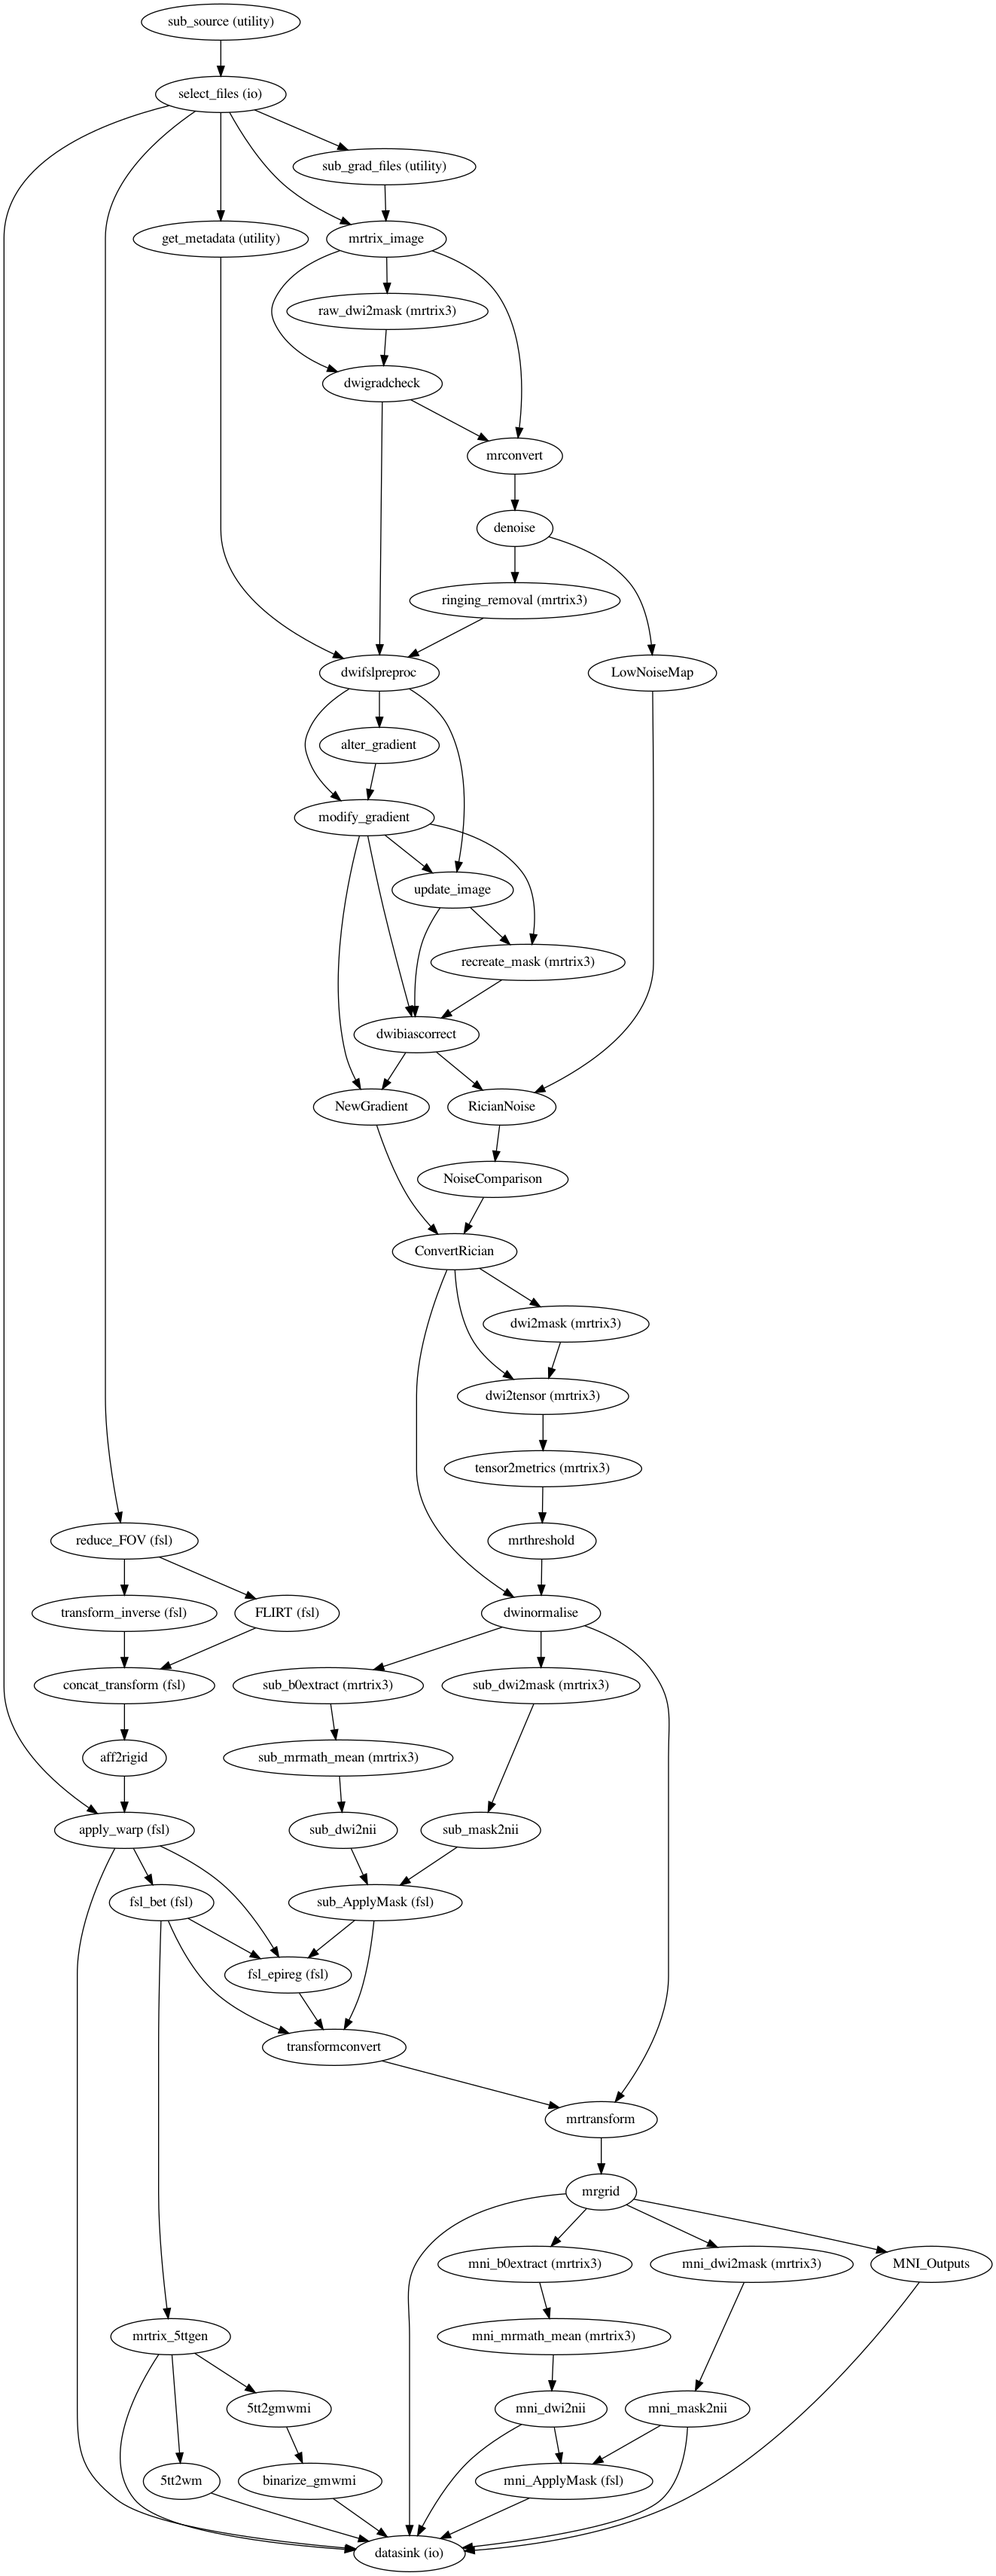
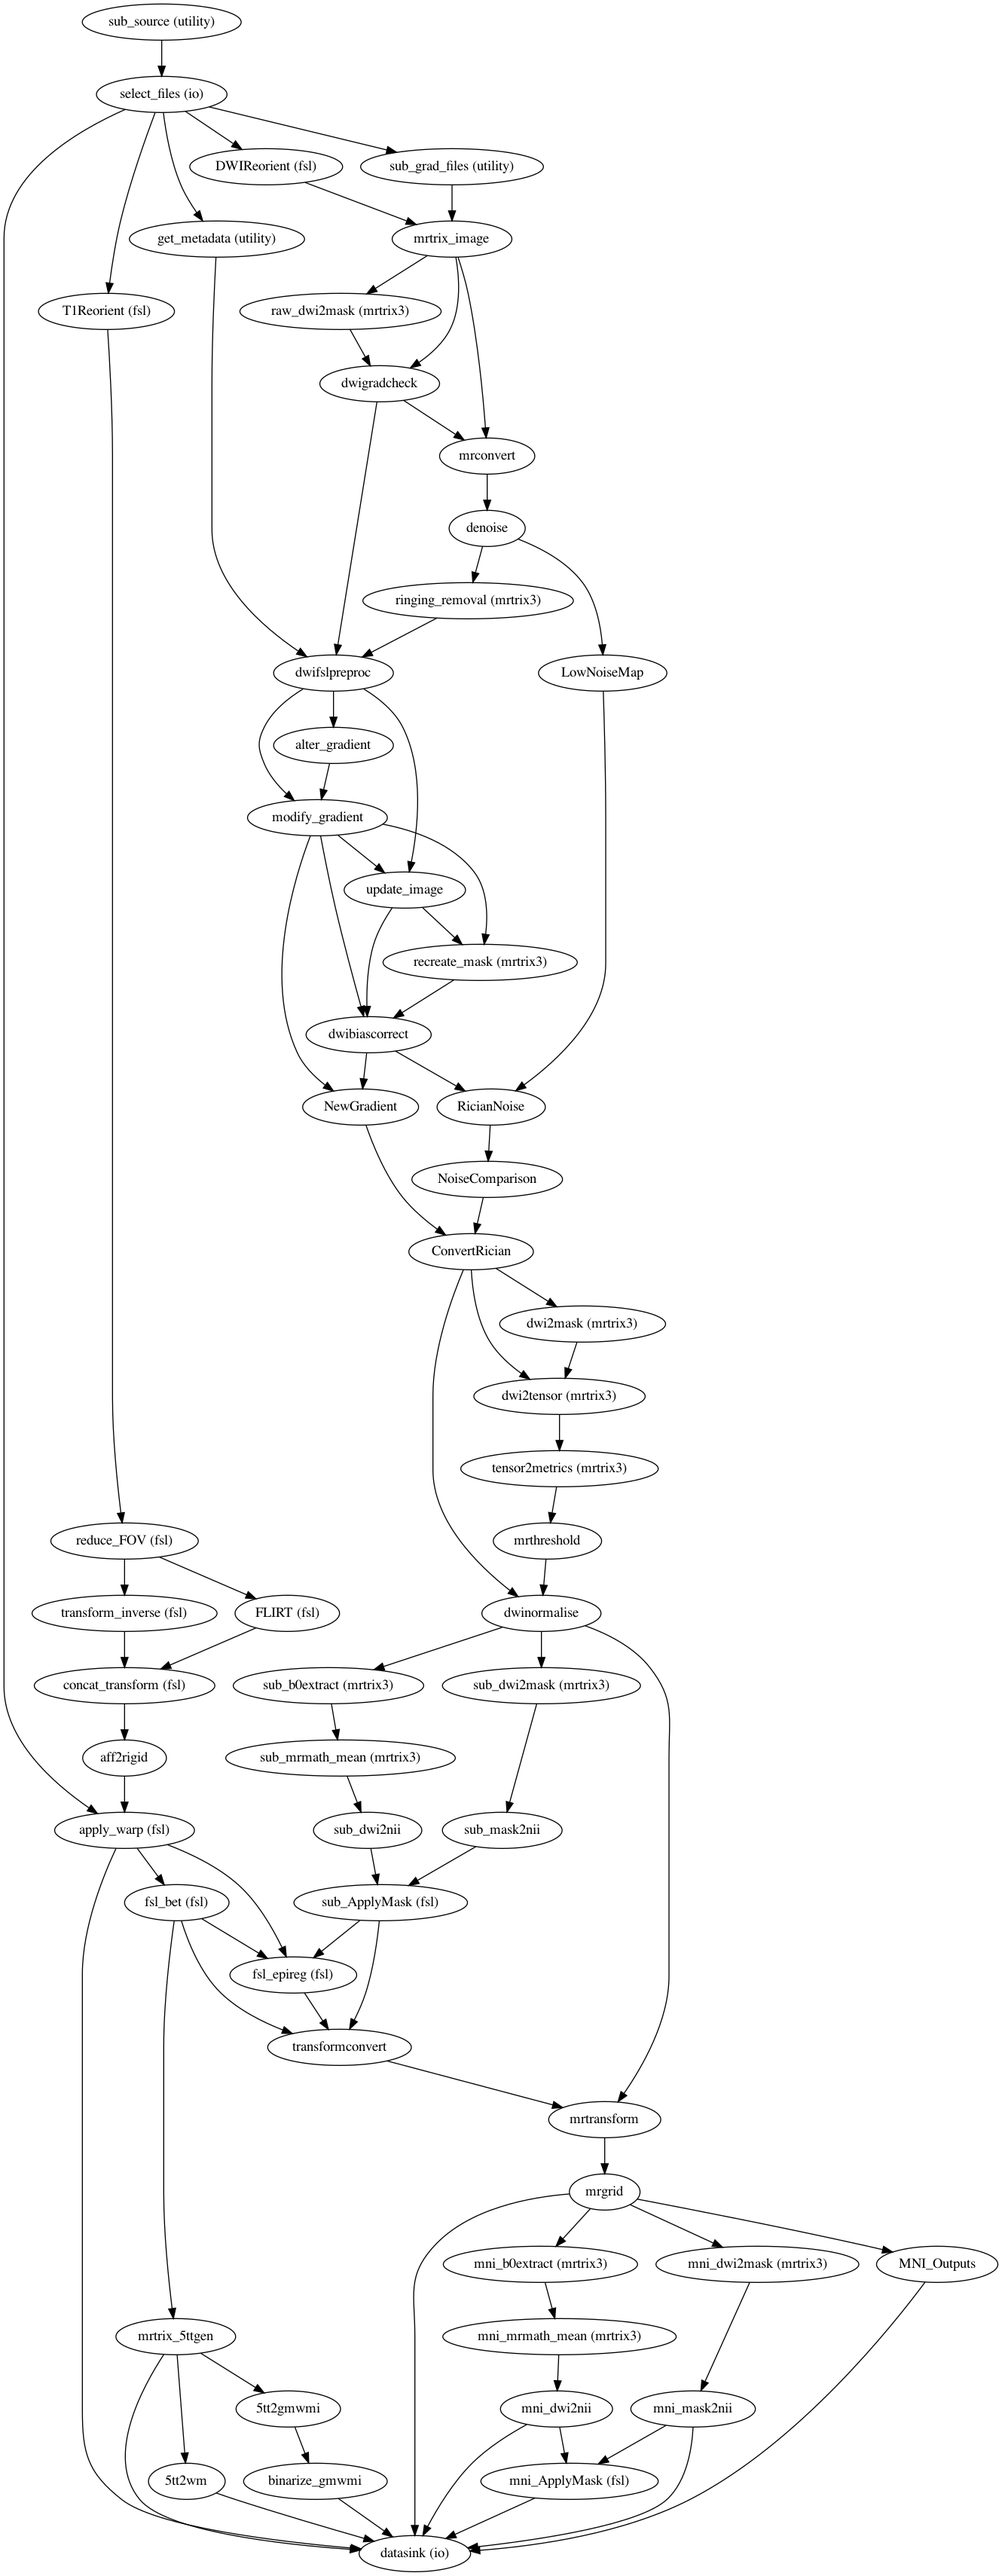
nbdev lib and tests

diff --git a/pipetography/nodes.py b/pipetography/nodes.py
@@ -34,13 +34,13 @@ from nipype.interfaces import fsl
 # Cell
 class PreProcNodes:
     """
-    Initiate DWI preprocessing pipeline nodes.
+    Initiate DWI preprocessing pipeline nodes. This doesn't connect the nodes into a pipeline.
 
     Inputs:
         - bids_dir (str) -
         - bids_path_template (dict) - template for file naming conventions
         - bids_ext (str) -
-        - rpe_design (str)
+        - rpe_design (str) - This is necessary to initiate nodes for single DWI volume, or additional nodes for reverse volume.
         - mrtrix_nthreads (int)
         - img_resol (str)
         - sub_list (List)
@@ -62,7 +62,7 @@ class PreProcNodes:
     ):
         # filtter & create sub-graphs for subjects and sessions combos
         sub_iter, ses_iter = ppt.filter_workflow(bids_dir, sub_list, ses_list, exclude_list)
-        # Create BIDS output folder list for datasink
+        # Create BIDS nodes:
         BIDSFolders = [
             (
                 "preprocessed/ses-%ssub-%s" % (session, subject),
@@ -71,7 +71,7 @@ class PreProcNodes:
             for session in ses_list
             for subject in sub_list
         ]
-
+        # IdentityInterface for file input:
         self.subject_source = Node(
             IdentityInterface(fields=["subject_id", "session_id"]),
             iterables=[("subject_id", sub_iter), ("session_id", ses_iter)],
@@ -81,7 +81,9 @@ class PreProcNodes:
         self.subject_source.inputs.ext = bids_ext
 
         # reverse phase encoding design selection
+        # If only one DWI volume:
         if rpe_design == "-rpe_none":
+            # Gradient files input:
             self.sub_grad_files = Node(
                 Function(
                     input_names=["sub_dwi", "ext"],
@@ -92,6 +94,15 @@ class PreProcNodes:
                 name="sub_grad_files",
             )
             self.sub_grad_files.inputs.ext = bids_ext
+            # Reorient DWI to standard orientation for FSL:
+            self.DWIReorient = Node(
+                fsl.utils.Reorient2Std(
+                    args = '-m mnitransformation.mat',
+                    out_file = 'dwi_reorient.nii.gz'
+                ),
+                name = "DWIReorient"
+            )
+            # Convert from nifti to mrtrix3's mif format:
             self.mrconvert = Node(
                 ppt.Convert(
                     out_file="raw_dwi.mif",
@@ -100,7 +111,9 @@ class PreProcNodes:
                 ),
                 name="mrtrix_image",
             )
+        # If there are two DWI images with second volume being reverse direction:
         elif rpe_design == "-rpe_all":
+            # Forward direction gradient file
             self.sub_grad_files1 = Node(
                 Function(
                     input_names=["sub_dwi", "ext"],
@@ -110,6 +123,7 @@ class PreProcNodes:
                 ),
                 name="sub_grad_files1",
             )
+            # Reverse direction gradient file
             self.sub_grad_files2 = Node(
                 Function(
                     input_names=["sub_dwi", "ext"],
@@ -121,6 +135,22 @@ class PreProcNodes:
             )
             self.sub_grad_files1.inputs.ext = bids_ext
             self.sub_grad_files2.inputs.ext = bids_ext
+            # Forward and reverses direction reorientation to FSL standard
+            self.DWIReorientForward = Node(
+                fsl.utils.Reorient2Std(
+                    args = '-m forward_mni_transformation.mat',
+                    out_file = 'dwi_reorient_forward.nii.gz'
+                ),
+                name = "DWIReorientForward",
+            )
+            self.DWIReorientReverse = Node(
+                fsl.utils.Reorient2Std(
+                    args = '-m reverse_mni_transformation.mat',
+                    out_file = 'dwi_reorient_reverse.nii.gz'
+                ),
+                name = "DWIReorientReverse",
+            )
+            # Conversion from nifti to mif
             self.mrconvert1 = Node(
                 ppt.Convert(
                     out_file="raw_dwi1.mif",
@@ -349,8 +379,12 @@ class PreProcNodes:
             ),
             name="datasink",
         )
-        substitutions = [("_subject_id_", "sub-"), ("_session_id_", "ses-")]
-        substitutions.extend(BIDSFolders)
+        substitutions = [
+            ("_subject_id_", "sub-"),
+            ("_session_id_", "ses-"),
+            *BIDSFolders,
+        ]
+
         self.datasink.inputs.substitutions = substitutions
         print(
             "Data sink (output folder) is set to {}".format(
@@ -367,6 +401,13 @@ class ACPCNodes:
     """
 
     def __init__(self, MNI_template):
+        self.T1Reorient = Node(
+            fsl.utils.Reorient2Std(
+                args = '-m mnitransformation.mat',
+                out_file = 'T1_reoriented.nii.gz'
+            ),
+            name = 'T1Reorient'
+        )
         self.reduceFOV = Node(
             fsl.utils.RobustFOV(
                 out_transform="roi2full.mat", out_roi="robustfov.nii.gz"

diff --git a/pipetography/pipeline.py b/pipetography/pipeline.py
@@ -206,8 +206,13 @@ class pipeline:
                 ),
                 (
                     self.PreProcNodes.select_files,
-                    self.ACPCNodes.reduceFOV,
+                    self.ACPCNodes.T1Reorient,
                     [("anat", "in_file")],
+                ),
+                (
+                    self.ACPCNodes.T1Reorient,
+                    self.ACPCNodes.reduceFOV,
+                    [("out_file", "in_file")],
                 ),
                 (
                     self.PreProcNodes.select_files,
@@ -614,8 +619,13 @@ class pipeline:
                 [
                     (
                         self.PreProcNodes.select_files,
-                        self.PreProcNodes.mrconvert,
+                        self.PreProcNodes.DWIReorient,
                         [("dwi", "in_file")],
+                    ),
+                    (
+                        self.PreProcNodes.DWIReorient,
+                        self.PreProcNodes.mrconvert,
+                        [("out_file", "in_file")],
                     ),
                     (
                         self.PreProcNodes.select_files,
@@ -669,13 +679,23 @@ class pipeline:
                     ),
                     (
                         self.PreProcNodes.select_files,
-                        self.PreProcNodes.mrconvert1,
+                        self.PreProcNodes.DWIReorientForward,
                         [("dwi", "in_file")],
                     ),
                     (
                         self.PreProcNodes.select_files,
-                        self.PreProcNodes.mrconvert2,
+                        self.PreProcNodes.DWIReorientReverse,
                         [("rdwi", "in_file")],
+                    ),
+                    (
+                        self.PreProcNodes.DWIReorientForward,
+                        self.PreProcNodes.mrconvert1,
+                        [("out_file", "in_file")],
+                    ),
+                    (
+                        self.PreProcNodes.DWIReorientReverse,
+                        self.PreProcNodes.mrconvert2,
+                        [("out_file", "in_file")],
                     ),
                     (
                         self.PreProcNodes.sub_grad_files1,
